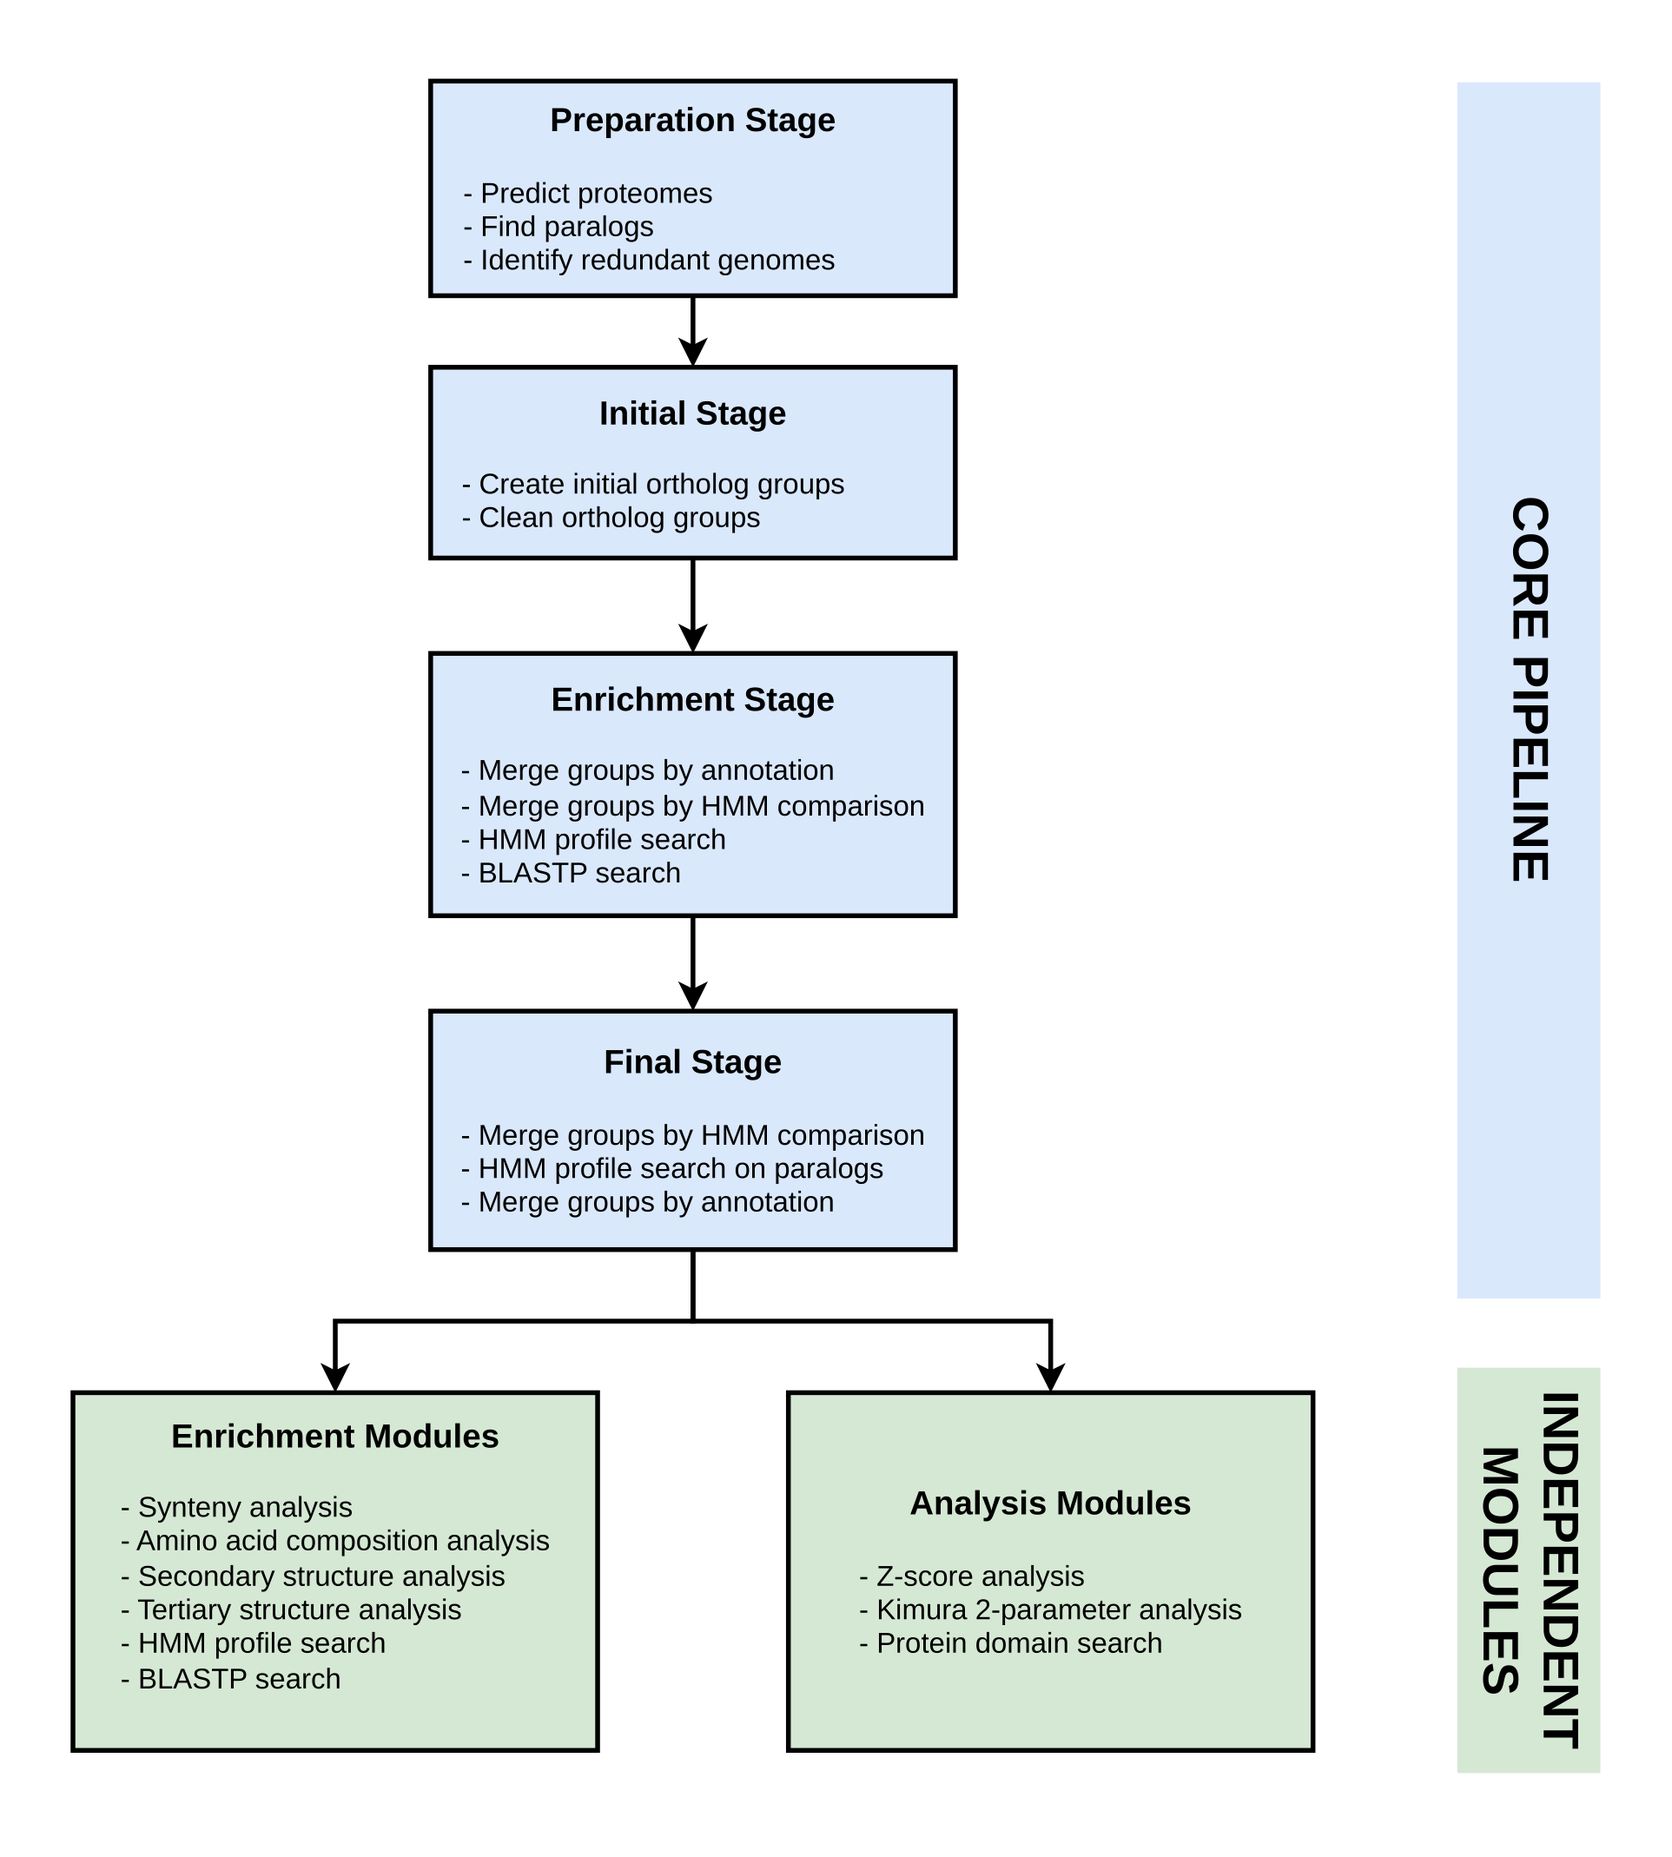
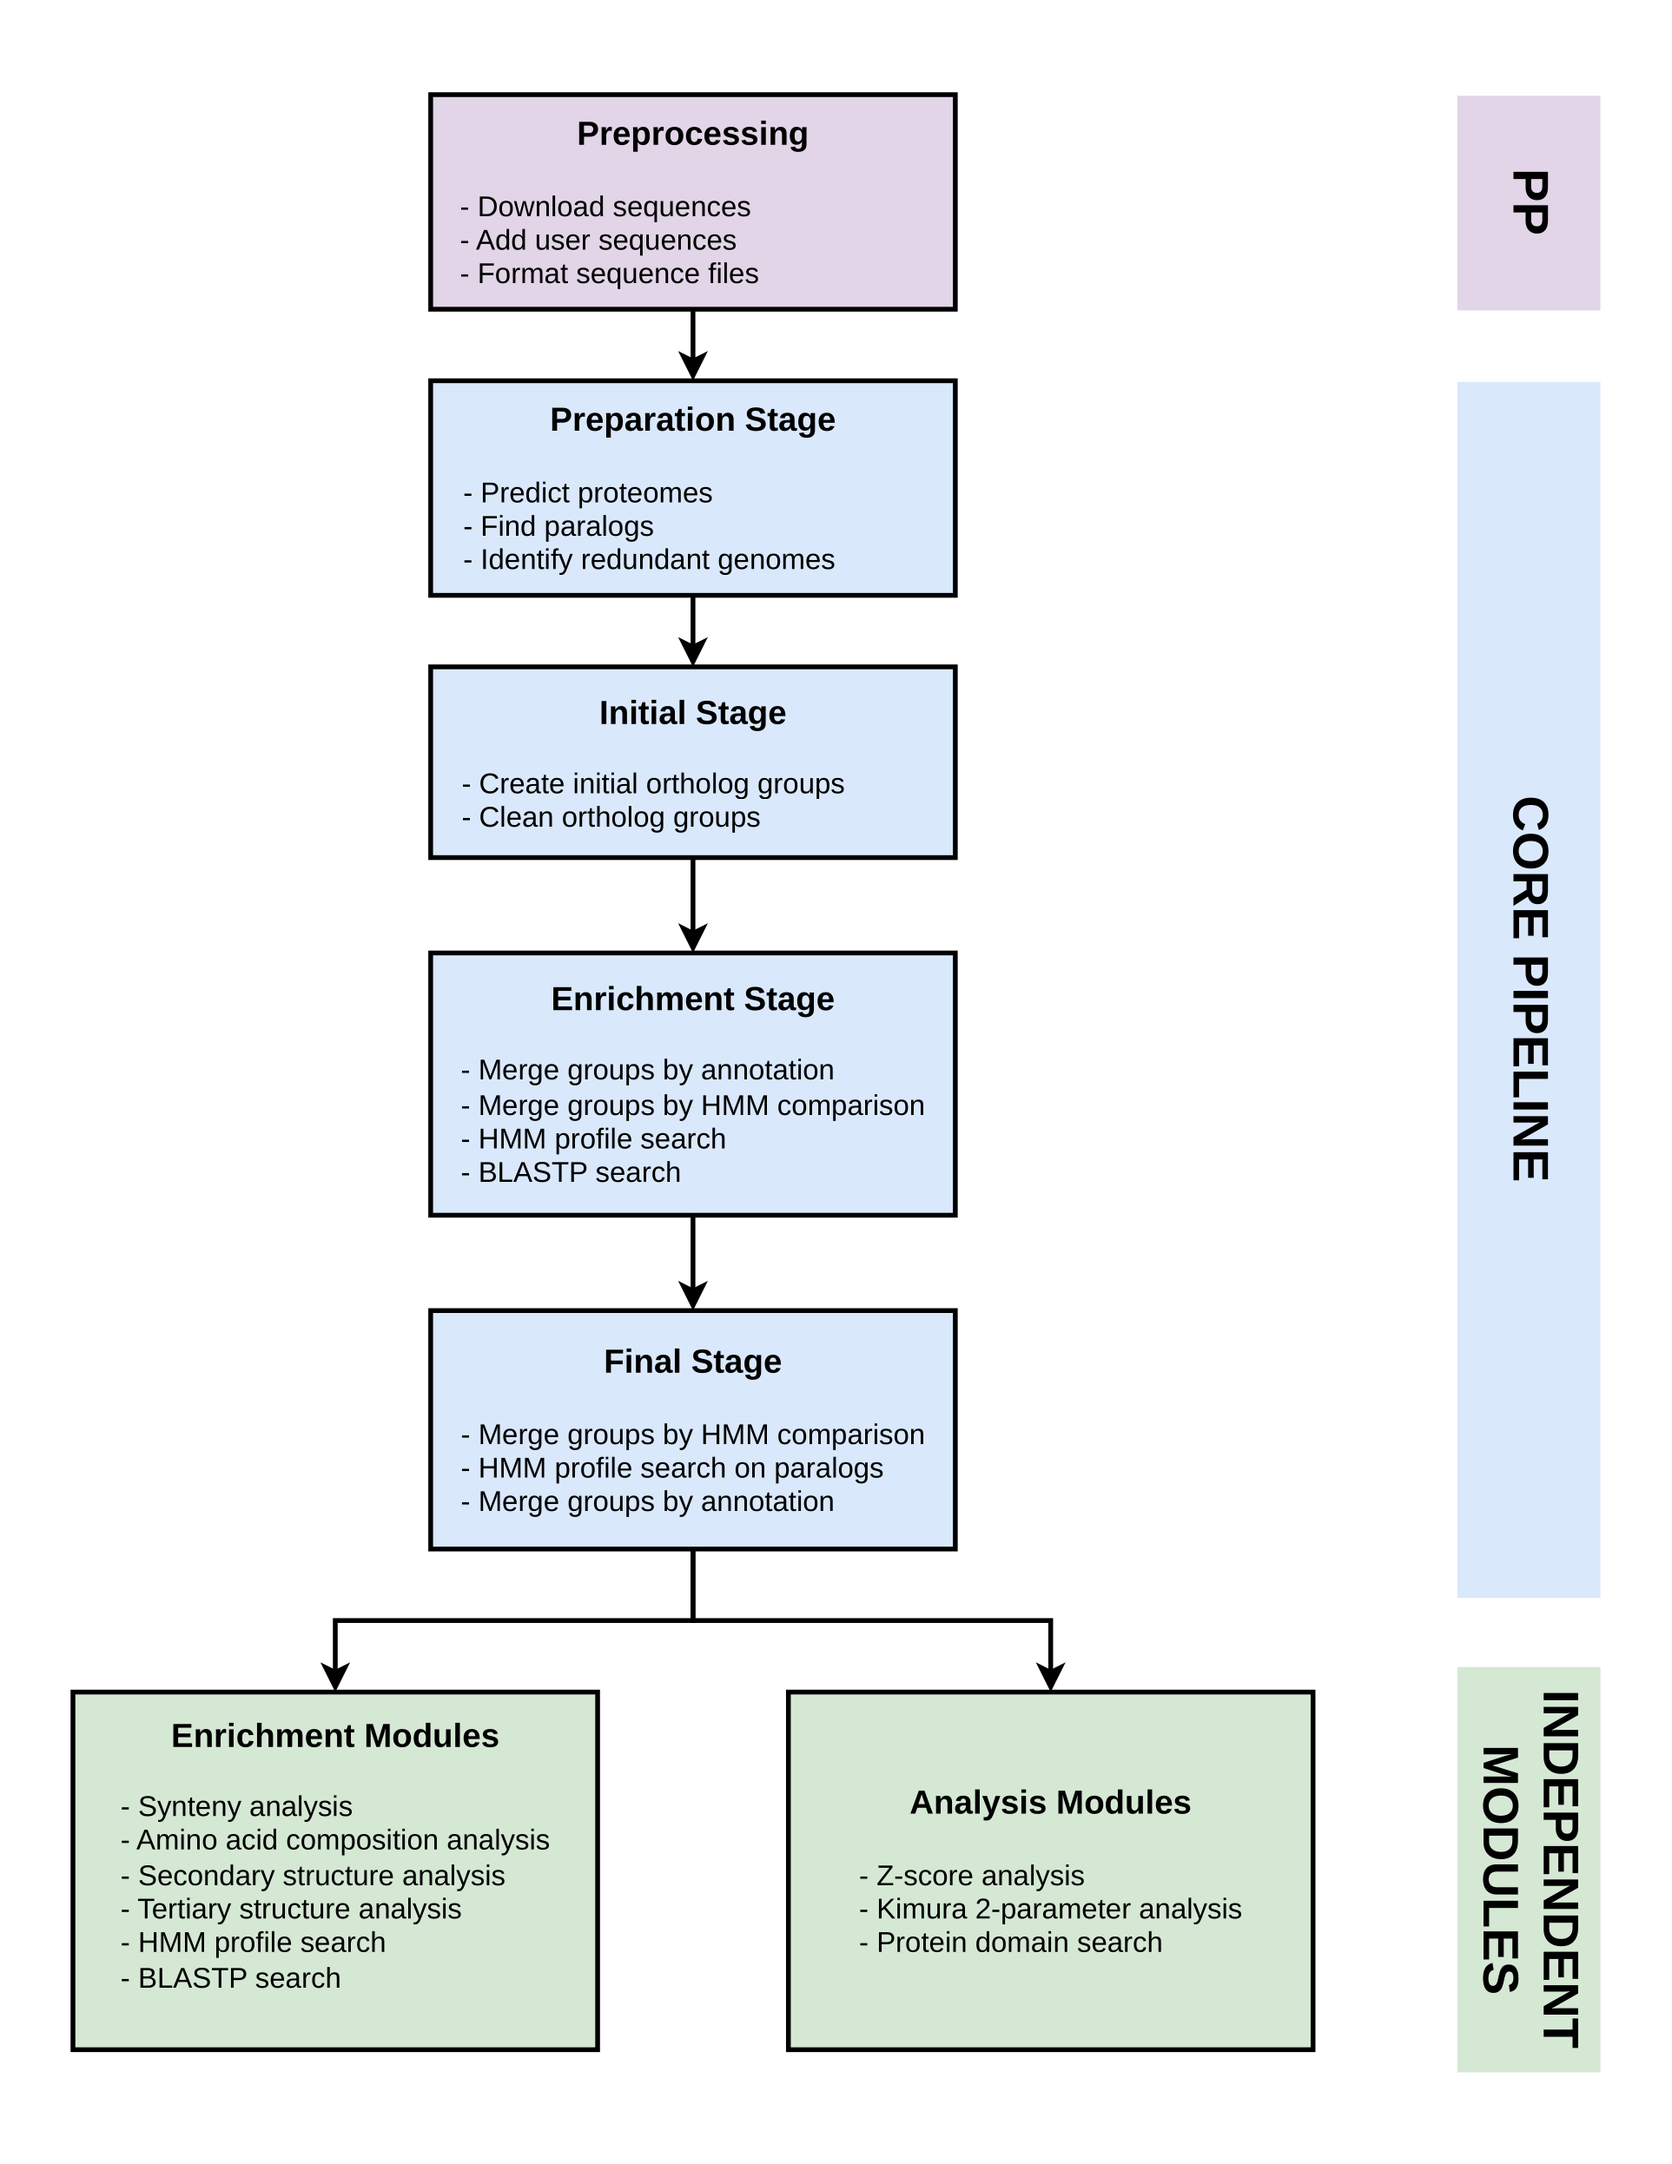
docs: update doc

diff --git a/docs/usage/basic_usage.md b/docs/usage/basic_usage.md
@@ -1,3 +1,58 @@
 # Basic usage
 
+## Workflow
+
+ViralOrthology consists of a core orthology inference pipeline followed by optional enrichment and analysis modules **(Fig. 1)**. The workflow consists of three main steps:
+
+1. **Preprocessing** — Prepare the input sequences by downloading the required sequences, adding user sequences, and formatting the sequence files.
+
+1. **Core pipeline** — Run the core pipeline on the prepared sequences to infer and iteratively refine orthologous groups.
+
+1. **Independent modules** — Further process the resulting groups using optional enrichment and analysis modules.
+
+The **independent modules** can be run separately depending on the analysis requirements. **Enrichment modules** use complementary evidence, such as synteny conservation, amino acid composition, and protein structural information, while **analysis modules** can be used to examine the resulting groups, evaluate their quality, and extract additional information from the inferred relationships.
+
+![Viral Orthology pipeline](../img/workflow.png)
+<p align="center"><em>Figure 1. Overview of the ViralOrthology workflow.</em></p>
+
+## Basic run
+
+### 1. Download sequences from GenBank
+
+**Prepare the input**
+
+Create a file named `ids.txt` containing the GenBank accession IDs of the viral genomes to be analyzed:
+
+```text
+NC_XXXXX
+NC_XXXXX
+NC_XXXXX
+```
+
+**Retrieve sequences**
+
+```bash
+viralorthology -download_seqs
+```
+
+<!--### Add user sequences # TODO-->
+
+### 2. Run the core pipeline
+
+```bash
+viralorthology -pipeline
+```
+
+The core pipeline uses several bioinformatics tools whose parameters can be customized. For more information, see the [Tool Parameters](../usage/tool_parameters.md) section.
+
+### 3. Run enrichment and analysis modules
+
+Once the orthologous groups have been generated, independent enrichment and analysis modules can be executed as needed.
+
+## Enrichment modules
+
+**Status:** In progress — documentation pending.
+
+## Analysis modules
+
 **Status:** In progress — documentation pending.

diff --git a/docs/index.md b/docs/index.md
@@ -18,15 +18,6 @@ A modular bioinformatics pipeline for automated orthology inference across viral
 - Amino acid composition analysis
 - Protein secondary and tertiary structure analysis
 
-## Workflow
-
-ViralOrthology consists of a core orthology inference pipeline followed by optional enrichment and analysis modules.
-The core pipeline processes the input sequences, generates initial orthologous groups, and iteratively refines them.
-The resulting orthologous groups can then be processed by enrichment modules, which use complementary evidence such as synteny conservation, amino acid composition, and protein structural information.
-Finally, analysis modules can be used to examine the resulting groups, evaluate their quality, and extract additional information from the inferred relationships.
-
-![Viral Orthology pipeline](img/workflow.png)
-
 ## Installation
 
 ### Requirements
@@ -80,12 +71,6 @@ The core workflow performs the initial orthology inference and iterative refinem
 
 Once the orthologous groups have been generated, independent enrichment and analysis modules can be executed as needed.
 
-For example:
+## Third-party software and licenses
 
-```bash
-viralorthology -synteny
-```
-
-```bash
-viralorthology -composition ...
-```
+This pipeline uses several third-party software tools and libraries. These components are developed and maintained by their respective authors and organizations and remain subject to their own copyright and licensing terms.
